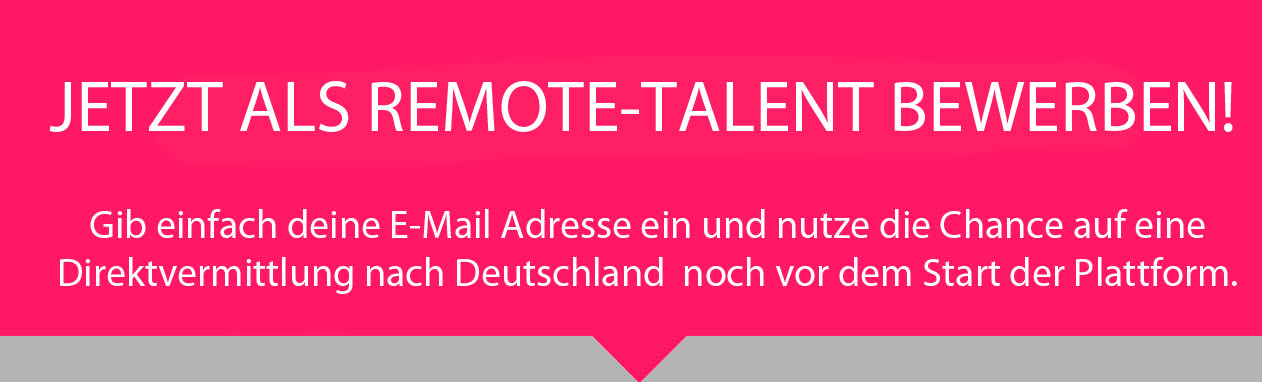
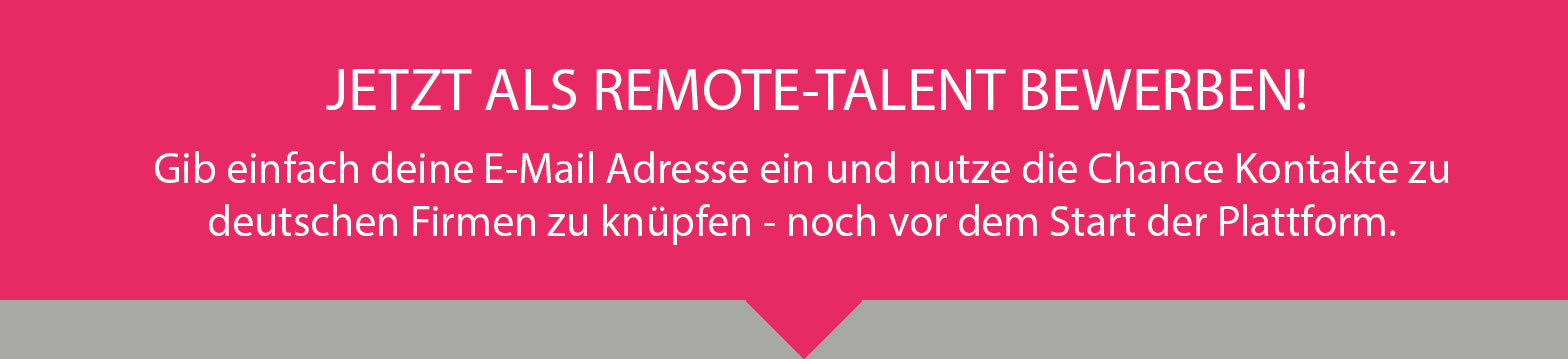
Bilder, Text, Startup raus

diff --git a/src/components/content/Talents/Talents.css b/src/components/content/Talents/Talents.css
@@ -111,6 +111,7 @@
 }
 .talents5 {
   width: 100%;
+  margin:auto;
   background-size: cover;
   background-repeat: no-repeat;
   text-align: center;
@@ -130,15 +131,15 @@
 .talentForm {
   display: inline-block;
   width: 400px;
-  height: 60px;
-  font-size: x-large;
-  border-radius: 20px;
+  height: 40px;
+  font-size: small;
+  border-radius: 10px;
   margin: 5px;
   border: 1px solid grey;
 }
 .talents6 {
   text-align: center;
-  background-color: #b2b2b2; /*OFICIAL GREY*/
+  background-color: #a8a7a7; 
 }
 .span {
   display: block;
@@ -151,14 +152,15 @@
   text-align: center;
 }
 .btnDoIt {
-  font-size: 44px;
+  font-size: 28px;
   background-color: #e72862; /*OFICIAL PINK*/
-  width: 50%;
+  width: 40%;
   color: white;
   padding-left: 15px;
   border: none;
   margin-top: 25px;
   margin-bottom: 50px;
+  border-radius: 30px;
 }
 
 /*------------- iPhone 5 ----------- */
@@ -254,7 +256,13 @@
     margin-bottom: 0px !important;
   }
   .talentForm {
-    font-size: smaller !important;
+    display: inline-block;
+    width: 400px;
+    height: 40px;
+    font-size: small;
+    border-radius: 20px;
+    margin: 5px;
+    border: 1px solid grey;
   }
   .span {
     margin-left: 0px;

diff --git a/src/components/content/Companies/Companies.css b/src/components/content/Companies/Companies.css
@@ -72,9 +72,10 @@
 .pic5Comp {
   background-repeat: no-repeat;
   background-size: contain;
-  width: 100%;
+  margin:auto;
+  width: 80%;
   pointer-events: none;
-}
+  }
 .hereForYou {
   margin-top: 96px;
 }
